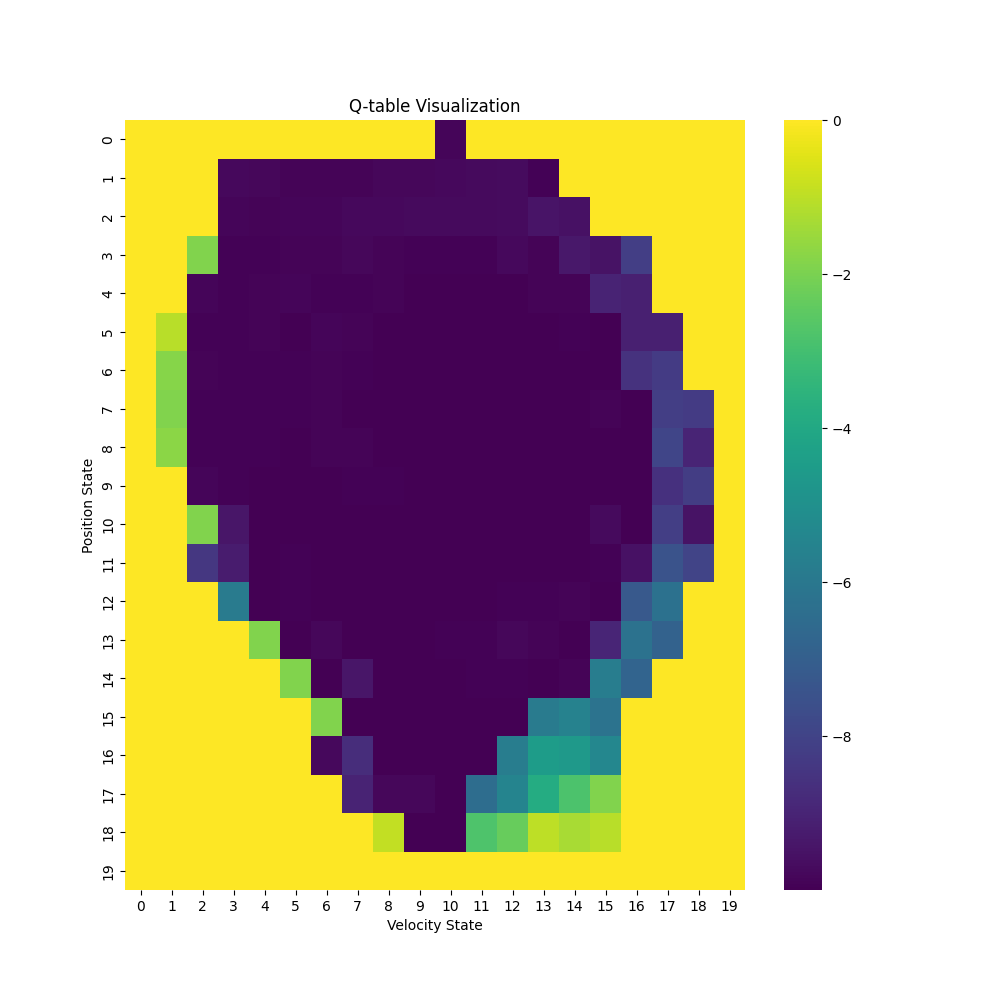
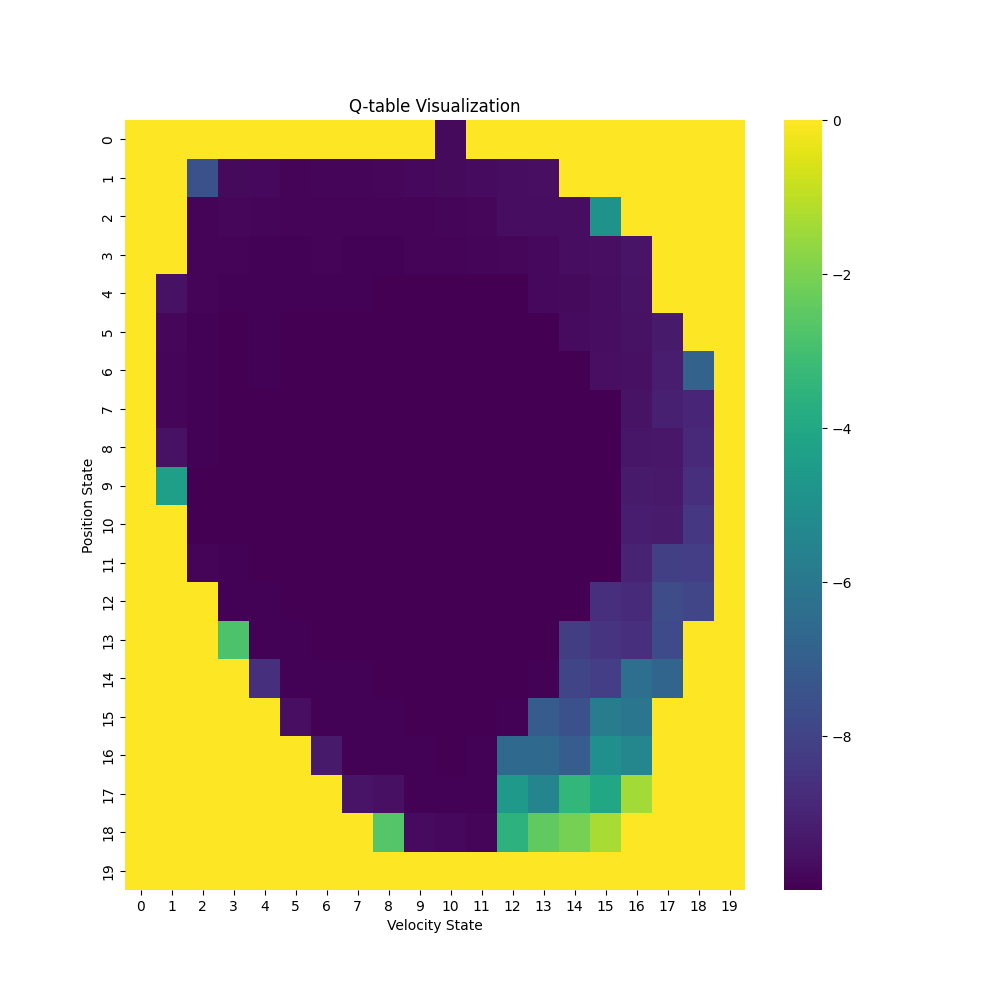
end

diff --git a/mountain_car.py b/mountain_car.py
@@ -6,8 +6,9 @@ import matplotlib.pyplot as plt
 import seaborn as sns
 
 def run(num_episodes, is_training = True, render = False):
+   # Initialize environment
    env = gym.make('MountainCar-v0', render_mode='human' if render else None)
-   env.metadata['render_fps']= 0
+   env.metadata['render_fps']= 60
    position_states = np.linspace(-1.2, 0.6, 20)
    velocity_states = np.linspace(-0.07, 0.07, 20)
    if is_training:
@@ -19,7 +20,7 @@ def run(num_episodes, is_training = True, render = False):
 
    learning_rate = 0.9
    discount_rate = 0.9
-   epsilon = 1.0  # Start with full exploration
+   epsilon = 1  # Start with full exploration
 
    episode_rewards = []
 
@@ -31,7 +32,7 @@ def run(num_episodes, is_training = True, render = False):
        total_reward = 0
        done = False
 
-       while not done and total_reward > -1000:  # Run until the environment signals termination
+       while not done and total_reward > -1000:  # Run until the environment signals termination or the car does too many actions
            # Epsilon-greedy action selection
            if random.uniform(0, 1) < epsilon and is_training:
                action = env.action_space.sample()
@@ -67,23 +68,14 @@ def run(num_episodes, is_training = True, render = False):
        f = open("Q_table.pkl", "wb")
        pickle.dump(Q_table, f)
        f.close()
+       # Save Q-table visualization
        plot_q_table(Q_table)
-   
-   # Moving average plot
-   plt.figure()
-   window_size = 100
-   mean_rewards = []
-   for i in range(len(episode_rewards)):
-       start_idx = max(0, i - window_size + 1)
-       mean_rewards.append(np.mean(episode_rewards[start_idx:i+1]))
-   
-   plt.plot(mean_rewards)
-   plt.title('Mean Rewards per Episode (Moving Average)')
-   plt.xlabel('Episode')
-   plt.ylabel('Mean Reward')
-   plt.savefig('mountain_car_mean_rewards_per_episode.png')
-   plt.close()
 
+   # Save rewards per episode plot
+   plot_rewards_per_episode(episode_rewards)
+
+   # Save moving average plot
+   plot_moving_average(episode_rewards)
 
 def plot_q_table(Q_table):
    fig, ax = plt.subplots(figsize=(10, 10))
@@ -95,6 +87,30 @@ def plot_q_table(Q_table):
    fig.savefig('mountain_car_q_table.png')
    plt.close(fig)  
 
+def plot_moving_average(episode_rewards):
+   window_size = 100
+   mean_rewards = []
+   for i in range(len(episode_rewards)):
+       start_idx = max(0, i - window_size + 1)
+       mean_rewards.append(np.mean(episode_rewards[start_idx:i+1]))
+   plt.plot(mean_rewards)
+   plt.title('Mean Rewards per Episode (Moving Average)')
+   plt.xlabel('Episode')
+   plt.ylabel('Mean Reward')
+   plt.savefig('mountain_car_moving_average.png')
+   plt.close()
+
+def plot_rewards_per_episode(episode_rewards):
+   plt.figure()
+   plt.title('Rewards per Episode')
+   plt.plot(episode_rewards)
+   plt.xlabel('Episode')
+   plt.ylabel('Reward')
+   plt.savefig('mountain_car_rewards_per_episode.png')
+   plt.close()   
+
 if __name__ == '__main__':
-   #run(1000, is_training=True, render=False)
-   run(10, is_training=False, render=True)
+    # For training
+    run(2000, is_training=True, render=False)
+    # For testing (with a trained Q-table)
+    #run(10, is_training=False, render=True)
